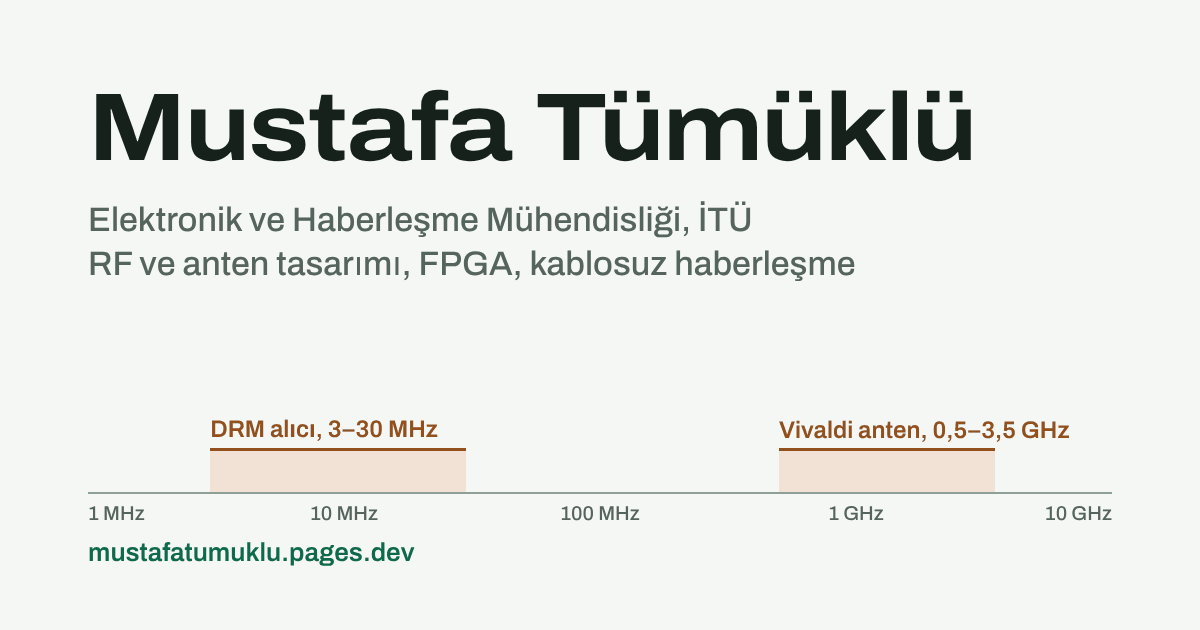
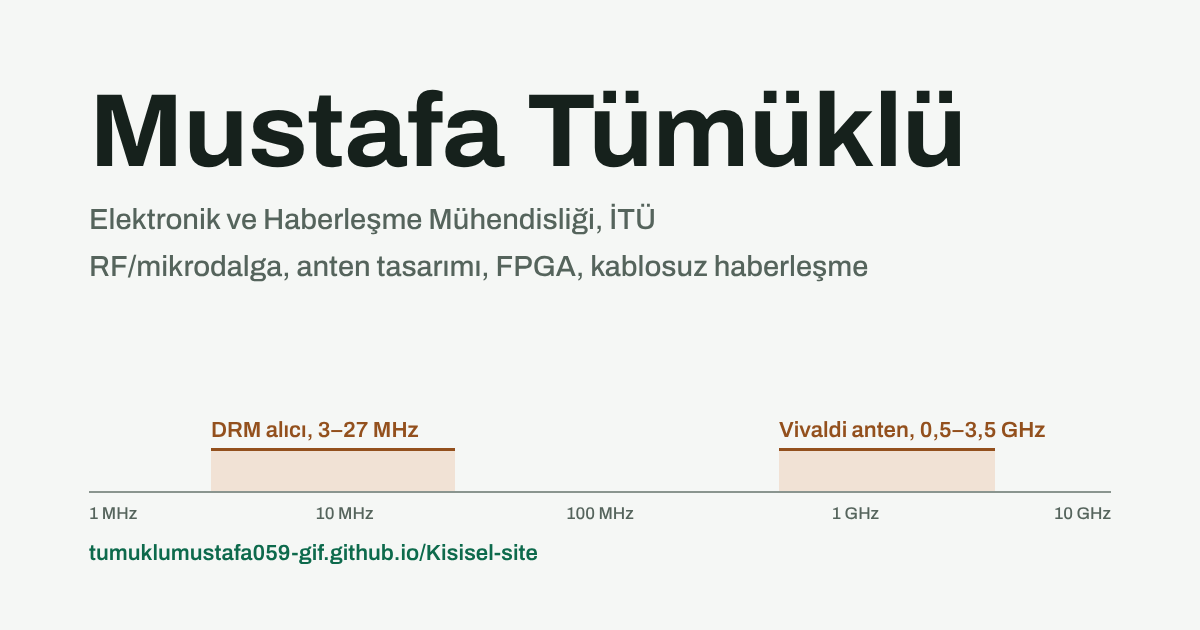
Add files via upload

diff --git a/index.html b/index.html
@@ -90,13 +90,13 @@
   font-family: "Archivo";
   src: url("fontlar/archivo-latin.woff2") format("woff2");
   font-weight: 500 700; font-stretch: 100% 115%; font-display: swap;
-  unicode-range: U+0020-007E, U+00A0, U+00A9, U+00B7, U+00C2, U+00C7, U+00CE, U+00D6, U+00D7, U+00DB, U+00DC, U+00E2, U+00E7, U+00EE, U+00F6, U+00FB, U+00FC, U+2013-2014, U+2018-2019, U+201C-201D, U+2022, U+2026;
+  unicode-range: U+0020-007E, U+00A0, U+00A9, U+00B7, U+00C2, U+00C7, U+00CE, U+00D6, U+00D7, U+00DB, U+00DC, U+00E2, U+00E7, U+00EE, U+00F6, U+00FB, U+00FC, U+0131, U+2013-2014, U+2018-2019, U+201C-201D, U+2022, U+2026;
 }
 @font-face {
   font-family: "Archivo";
   src: url("fontlar/archivo-tr.woff2") format("woff2");
   font-weight: 500 700; font-stretch: 100% 115%; font-display: swap;
-  unicode-range: U+011E-011F, U+0130-0131, U+015E-015F;
+  unicode-range: U+011E-011F, U+0130, U+015E-015F;
 }
 
 *, *::before, *::after { box-sizing: border-box; }
@@ -378,7 +378,7 @@ ul, ol { margin: 0; padding: 0; }
     <img class="foto" src="foto-600.webp" srcset="foto-300.webp 300w, foto-600.webp 600w" sizes="(min-width: 60rem) 17rem, 7.5rem" width="600" height="750" alt="Mustafa Tümüklü'nün fotoğrafı" fetchpriority="high" decoding="async">
     <div class="giris-govde">
       <p class="unvan">Elektronik ve Haberleşme Mühendisliği son sınıf öğrencisi, İstanbul Teknik Üniversitesi</p>
-      <p class="ozet">RF ve anten tasarımı, FPGA ile sayısal tasarım ve kablosuz haberleşme üzerine çalışıyorum. 2027 bahar dönemi için uzun dönem staj arıyorum.</p>
+      <p class="ozet">RF/mikrodalga devre ve anten tasarımı, FPGA ile sayısal tasarım ve kablosuz haberleşme üzerine çalışıyorum. 2027 bahar dönemi için uzun dönem staja, Mayıs 2027'deki mezuniyetimin ardından da tam zamanlı pozisyonlara açığım.</p>
       <div class="eylemler">
         <a class="dugme" href="dosyalar/cv/Mustafa_Tumuklu_CV.pdf" download>
           <svg viewBox="0 0 16 16" aria-hidden="true"><path d="M8 1.5v9m0 0L4.5 7M8 10.5 11.5 7M2.5 13.5h11" fill="none" stroke="currentColor" stroke-width="1.6" stroke-linecap="round" stroke-linejoin="round"/></svg>
@@ -398,8 +398,8 @@ ul, ol { margin: 0; padding: 0; }
     <figure class="spektrum">
       <figcaption>Projelerimin çalıştığı frekans aralıkları</figcaption>
       <div class="spk">
-        <div class="bant" style="--bas: 11.93%; --gen: 25%;">
-          <p class="bant-etiket"><b>DRM alıcı</b><span>3–30 MHz, kısa dalga</span></p>
+        <div class="bant" style="--bas: 11.93%; --gen: 23.86%;">
+          <p class="bant-etiket"><b>DRM alıcı</b><span>3–27 MHz, kısa dalga</span></p>
         </div>
         <div class="bant" style="--bas: 67.47%; --gen: 21.13%;">
           <p class="bant-etiket"><b>Vivaldi anten</b><span>0,5–3,5 GHz</span></p>
@@ -422,9 +422,9 @@ ul, ol { margin: 0; padding: 0; }
     <div class="hakkimda">
       <div class="metin">
         <p>İstanbul Teknik Üniversitesi Elektronik ve Haberleşme Mühendisliği bölümünde son sınıftayım ve Mayıs 2027'de mezun olmayı planlıyorum. Çalışmalarım RF ve anten tasarımı, FPGA ile sayısal tasarım ve kablosuz haberleşme sistemleri üzerine yoğunlaşıyor.</p>
-        <p>Bitirme projemde bir takım arkadaşımla birlikte düşük maliyetli bir kısa dalga DRM alıcısı geliştiriyoruz; ben RF ön uç ve anten tarafındayım. Bu dönem ayrıca ns-3 ile 5G NR handover optimizasyonu, bir mikrodalga link tasarımı ve 3,5 GHz'de bir düşük gürültülü yükselteç (LNA) tasarımı üzerinde çalışıyorum.</p>
+        <p>Bitirme projemde bir takım arkadaşımla birlikte CML Micro DRM1000 tabanlı, düşük maliyetli bir kısa dalga DRM alıcısı geliştiriyoruz; ben sistem tasarımı ve donanım tarafında çalışıyorum. Bu dönem ayrıca ns-3 ile 5G NR handover optimizasyonu, bir mikrodalga link tasarımı ve 3,5 GHz'de bir düşük gürültülü yükselteç (LNA) tasarımı üzerinde çalışıyorum.</p>
         <p>TÜBİTAK BİLGEM-TÜTEL'de FPGA üzerinde sayısal tasarım stajı yaptım. Enerjisa'nın SPARK Genç Yetenek Programı'nda ise röle koordinasyonunu otomatikleştiren bir yazılım geliştiren ekipte yer aldım.</p>
-        <p>Öğrendiklerimi gerçek ürünlerde uygulayabileceğim, deneyimli mühendislerle çalışabileceğim bir uzun dönem staj arıyorum.</p>
+        <p>Öğrendiklerimi gerçek ürünlerde uygulayabileceğim, deneyimli mühendislerle çalışabileceğim bir uzun dönem staj; mezuniyetimin ardından da RF/mikrodalga ve sinyal işleme alanında tam zamanlı bir pozisyon arıyorum.</p>
       </div>
       <dl class="bilgi">
         <div><dt>Okul</dt><dd>İstanbul Teknik Üniversitesi</dd></div>
@@ -441,7 +441,7 @@ ul, ol { margin: 0; padding: 0; }
   <!-- ===== KARİYER ===== -->
   <section class="bolum" id="kariyer" aria-labelledby="kariyer-baslik">
     <h2 id="kariyer-baslik">Kariyer</h2>
-    <p>Hedefim RF/mikrodalga, sayısal tasarım veya haberleşme sistemleri alanında uzun dönem staj yapmak.</p>
+    <p>Hedefim RF/mikrodalga, sayısal tasarım veya haberleşme sistemleri alanında önce uzun dönem staj yapmak, mezuniyetimin ardından da bu alanlarda tam zamanlı mühendis olarak çalışmak.</p>
 
     <div class="kariyer-izgara">
       <div class="kariyer-sutun">
@@ -482,7 +482,7 @@ ul, ol { margin: 0; padding: 0; }
               <p class="yer">İstanbul Teknik Üniversitesi</p>
               <ul class="maddeler">
                 <li>Genel not ortalaması: 3.00 / 4.00</li>
-                <li>Bitirme projesi: ESP32 tabanlı kısa dalga DRM alıcı</li>
+                <li>Bitirme projesi: DRM1000 tabanlı kısa dalga DRM alıcı</li>
               </ul>
             </div>
           </li>
@@ -490,10 +490,10 @@ ul, ol { margin: 0; padding: 0; }
 
         <h3 class="alt-baslik">Teknik beceriler</h3>
         <dl class="beceriler">
-          <div><dt>RF ve anten</dt><dd>CST Studio Suite, LTspice, MATLAB</dd></div>
+          <div><dt>RF ve anten</dt><dd>CST Studio Suite, LTspice, MATLAB; LNA tasarımı, mikroşerit empedans uydurma</dd></div>
           <div><dt>Sayısal tasarım</dt><dd>Verilog, Vivado, Quartus, DE1-SoC FPGA</dd></div>
           <div><dt>Haberleşme ve simülasyon</dt><dd>ns-3 (5G-LENA), MATLAB</dd></div>
-          <div><dt>Programlama ve gömülü</dt><dd>C++, ESP32</dd></div>
+          <div><dt>Programlama</dt><dd>C++, Python</dd></div>
         </dl>
       </div>
     </div>
@@ -506,14 +506,14 @@ ul, ol { margin: 0; padding: 0; }
 
       <article class="proje proje-ana" id="drm-alici">
         <div class="proje-ana-sol">
-          <h3>ESP32 tabanlı kısa dalga DRM alıcı</h3>
+          <h3>Kısa dalga DRM alıcı</h3>
           <p class="proje-ust"><span class="durum">Devam ediyor</span>Bitirme projesi, 2026–2027</p>
           <div class="metin">
-            <p>Kısa dalga bandındaki Digital Radio Mondiale (DRM) yayınlarını, acil durum yayınları dahil, düşük maliyetle alabilen kompakt bir alıcı geliştiriyoruz. Sinyal CML Micro DRM1000 modülünde çözülüyor; ESP32 sistemi yönetiyor ve çözülen metin mesajlarını ekranda gösteriyor.</p>
-            <p><strong>Benim payım:</strong> RF ön uç ve anten. DRM1000'in HF girişinin önüne 3–27 MHz bandını geçiren bir preselektör filtresi tasarlıyorum (LTspice). Ardından kısa dalga anten tasarımına geçeceğim.</p>
+            <p>Kısa dalga bandındaki Digital Radio Mondiale (DRM) yayınlarını, acil durum yayınları dahil, düşük maliyetle alabilen kompakt bir alıcı geliştiriyoruz. Alıcının çekirdeği CML Micro DRM1000 modülü: sinyal bu modülde çözülüyor, çözülen metin mesajları OLED ekranda gösteriliyor.</p>
+            <p><strong>Benim payım:</strong> Sistem tasarımı ve donanım. DRM1000'in HF girişinin önüne 3–27 MHz bandını geçiren preselektör filtresini LTspice'ta tasarladım.</p>
           </div>
           <ul class="etiketler" aria-label="Kullanılanlar">
-            <li>ESP32</li><li>CML Micro DRM1000</li><li>LTspice</li><li>Preselektör filtre</li><li>HF / kısa dalga</li>
+            <li>CML Micro DRM1000</li><li>LTspice</li><li>Preselektör filtre</li><li>HF / kısa dalga</li><li>OLED ekran</li>
           </ul>
         </div>
         <div class="proje-ana-sag">
@@ -672,7 +672,7 @@ ul, ol { margin: 0; padding: 0; }
        Ayrıntı için README.md dosyasına bak. -->
   <section class="bolum" id="dosyalar" aria-labelledby="dosyalar-baslik">
     <h2 id="dosyalar-baslik">Dosyalar</h2>
-    <p>CV'm, proje raporlarım, sunumlarım ve sertifikalarım. Dosya adına tıklayınca tarayıcıda açılır.</p>
+    <p>CV'm ve diğer dosyalarım. Dosya adına tıklayınca tarayıcıda açılır.</p>
     <!-- DOSYALAR -->
   </section>
 
